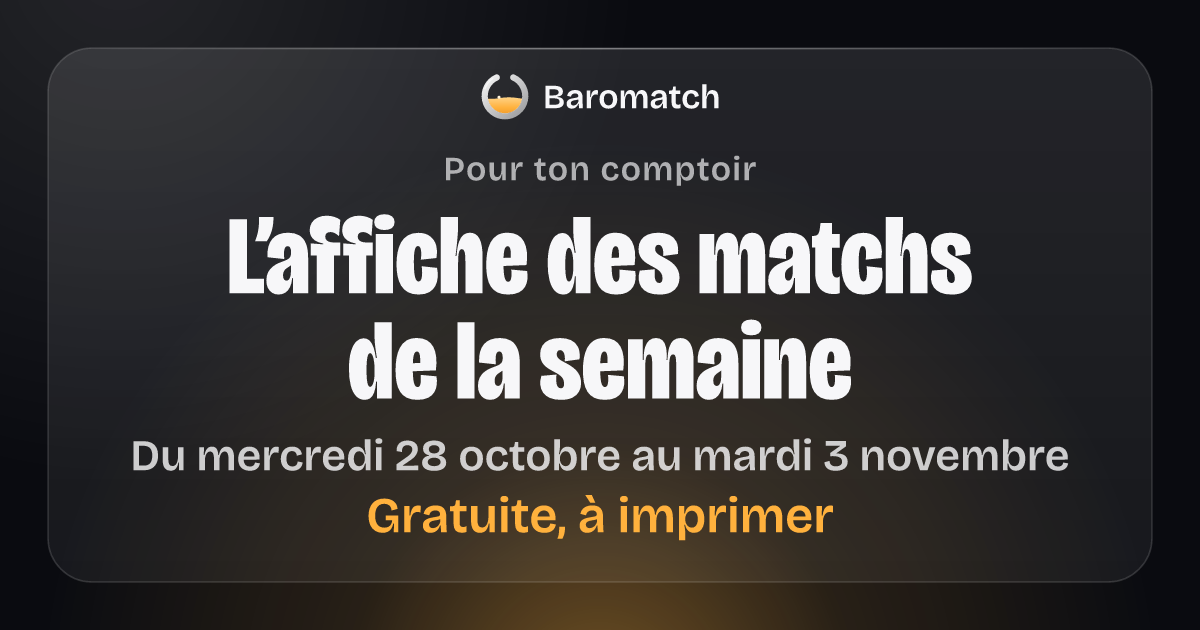
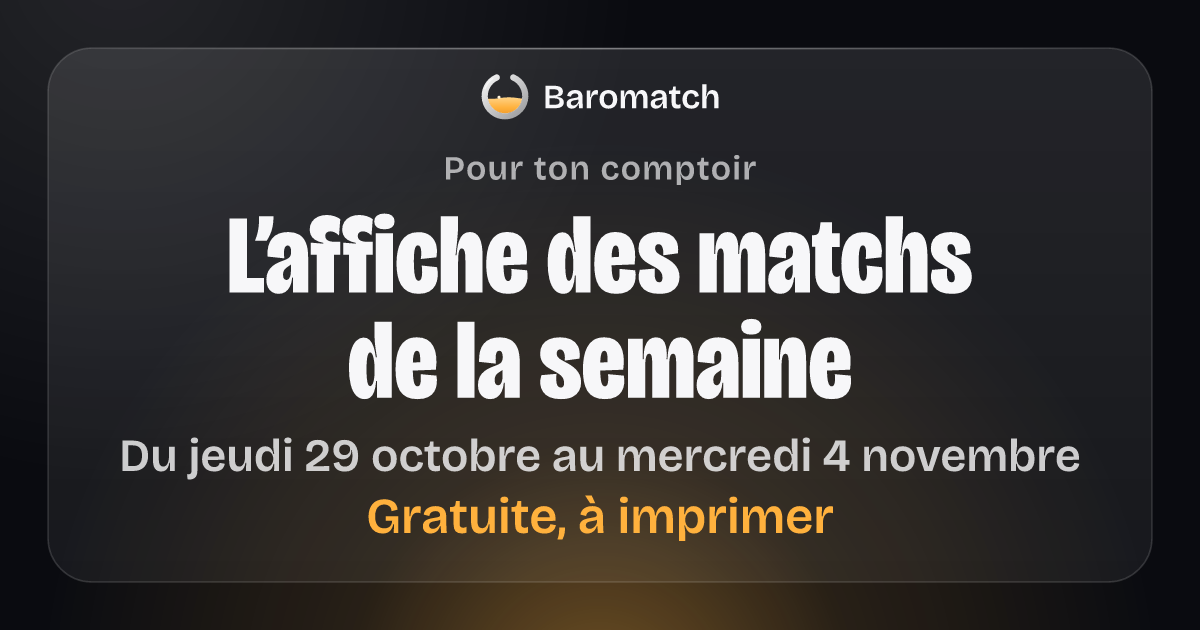
Pages des matchs : mise à jour du 29/10/2026 à 01:53

diff --git a/matchs/affiche/pour-le-patron/index.html b/matchs/affiche/pour-le-patron/index.html
@@ -86,7 +86,7 @@
       <p class="affiche-appel">Propose ton bar : scanne le code.</p>
       <p class="affiche-appel__suite">Ou écris à contact@baromatch.fr</p>
       <p class="affiche-laissee" aria-hidden="true">Laissée par :<span class="affiche-laissee__trait"></span></p>
-      <p class="affiche-prepare"><svg class="affiche-verre" viewBox="0 0 200 200" aria-hidden="true" focusable="false"><clipPath id="affiche-bol"><circle cx="100" cy="100" r="67"/></clipPath><g clip-path="url(#affiche-bol)"><path d="M-200 108 q35 -6 70 0 t70 0 t70 0 t70 0 t70 0 t70 0 t70 0 t70 0 V215 H-200 Z" fill="#FFB13D"/></g><path d="M68.3 28.7 A78 78 0 1 0 131.7 28.7" fill="none" stroke="#0A0B10" stroke-width="16" stroke-linecap="round"/></svg><span>Feuille préparée sur baromatch.fr, le mercredi 28 octobre.</span></p>
+      <p class="affiche-prepare"><svg class="affiche-verre" viewBox="0 0 200 200" aria-hidden="true" focusable="false"><clipPath id="affiche-bol"><circle cx="100" cy="100" r="67"/></clipPath><g clip-path="url(#affiche-bol)"><path d="M-200 108 q35 -6 70 0 t70 0 t70 0 t70 0 t70 0 t70 0 t70 0 t70 0 V215 H-200 Z" fill="#FFB13D"/></g><path d="M68.3 28.7 A78 78 0 1 0 131.7 28.7" fill="none" stroke="#0A0B10" stroke-width="16" stroke-linecap="round"/></svg><span>Feuille préparée sur baromatch.fr, le jeudi 29 octobre.</span></p>
     </div>
     <figure class="affiche-qr">
       <svg class="affiche-qr__code" viewBox="0 0 41 41" role="img" aria-label="QR code vers la page des bars de baromatch.fr, au formulaire pour proposer un bar" shape-rendering="crispEdges"><rect width="41" height="41" fill="#FFFFFF"/><path d="M4 4h7v1h-7zM12 4h1v1h-1zM15 4h1v1h-1zM18 4h2v1h-2zM21 4h1v1h-1zM25 4h1v1h-1zM27 4h1v1h-1zM30 4h7v1h-7zM4 5h1v1h-1zM10 5h1v1h-1zM20 5h2v1h-2zM23 5h1v1h-1zM25 5h2v1h-2zM30 5h1v1h-1zM36 5h1v1h-1zM4 6h1v1h-1zM6 6h3v1h-3zM10 6h1v1h-1zM13 6h2v1h-2zM17 6h1v1h-1zM20 6h1v1h-1zM23 6h3v1h-3zM27 6h2v1h-2zM30 6h1v1h-1zM32 6h3v1h-3zM36 6h1v1h-1zM4 7h1v1h-1zM6 7h3v1h-3zM10 7h1v1h-1zM12 7h1v1h-1zM14 7h2v1h-2zM18 7h2v1h-2zM21 7h4v1h-4zM30 7h1v1h-1zM32 7h3v1h-3zM36 7h1v1h-1zM4 8h1v1h-1zM6 8h3v1h-3zM10 8h1v1h-1zM12 8h3v1h-3zM16 8h1v1h-1zM18 8h1v1h-1zM22 8h3v1h-3zM26 8h2v1h-2zM30 8h1v1h-1zM32 8h3v1h-3zM36 8h1v1h-1zM4 9h1v1h-1zM10 9h1v1h-1zM12 9h1v1h-1zM17 9h1v1h-1zM20 9h1v1h-1zM22 9h2v1h-2zM28 9h1v1h-1zM30 9h1v1h-1zM36 9h1v1h-1zM4 10h7v1h-7zM12 10h1v1h-1zM14 10h1v1h-1zM16 10h1v1h-1zM18 10h1v1h-1zM20 10h1v1h-1zM22 10h1v1h-1zM24 10h1v1h-1zM26 10h1v1h-1zM28 10h1v1h-1zM30 10h7v1h-7zM12 11h4v1h-4zM18 11h4v1h-4zM25 11h1v1h-1zM27 11h1v1h-1zM4 12h1v1h-1zM8 12h1v1h-1zM10 12h3v1h-3zM14 12h1v1h-1zM16 12h1v1h-1zM20 12h2v1h-2zM23 12h4v1h-4zM28 12h6v1h-6zM36 12h1v1h-1zM5 13h3v1h-3zM9 13h1v1h-1zM12 13h3v1h-3zM17 13h4v1h-4zM22 13h1v1h-1zM24 13h1v1h-1zM26 13h2v1h-2zM29 13h1v1h-1zM33 13h2v1h-2zM5 14h1v1h-1zM7 14h2v1h-2zM10 14h1v1h-1zM19 14h1v1h-1zM21 14h1v1h-1zM26 14h5v1h-5zM33 14h1v1h-1zM35 14h1v1h-1zM4 15h1v1h-1zM6 15h2v1h-2zM14 15h1v1h-1zM18 15h2v1h-2zM21 15h3v1h-3zM25 15h1v1h-1zM28 15h1v1h-1zM36 15h1v1h-1zM4 16h1v1h-1zM10 16h2v1h-2zM15 16h4v1h-4zM22 16h6v1h-6zM29 16h2v1h-2zM32 16h2v1h-2zM35 16h2v1h-2zM5 17h1v1h-1zM7 17h1v1h-1zM9 17h1v1h-1zM11 17h1v1h-1zM14 17h1v1h-1zM17 17h1v1h-1zM20 17h2v1h-2zM23 17h1v1h-1zM27 17h1v1h-1zM29 17h1v1h-1zM31 17h1v1h-1zM34 17h1v1h-1zM5 18h2v1h-2zM8 18h4v1h-4zM16 18h1v1h-1zM18 18h1v1h-1zM20 18h1v1h-1zM22 18h2v1h-2zM25 18h1v1h-1zM27 18h4v1h-4zM32 18h1v1h-1zM34 18h2v1h-2zM4 19h4v1h-4zM13 19h3v1h-3zM18 19h1v1h-1zM21 19h6v1h-6zM28 19h3v1h-3zM33 19h1v1h-1zM4 20h4v1h-4zM10 20h3v1h-3zM14 20h3v1h-3zM19 20h1v1h-1zM21 20h1v1h-1zM25 20h4v1h-4zM30 20h1v1h-1zM32 20h1v1h-1zM35 20h1v1h-1zM5 21h1v1h-1zM7 21h3v1h-3zM11 21h2v1h-2zM16 21h1v1h-1zM18 21h4v1h-4zM27 21h1v1h-1zM29 21h1v1h-1zM33 21h2v1h-2zM5 22h3v1h-3zM10 22h1v1h-1zM14 22h1v1h-1zM16 22h5v1h-5zM22 22h1v1h-1zM25 22h1v1h-1zM27 22h1v1h-1zM31 22h1v1h-1zM33 22h1v1h-1zM35 22h1v1h-1zM6 23h2v1h-2zM9 23h1v1h-1zM11 23h2v1h-2zM14 23h1v1h-1zM18 23h2v1h-2zM23 23h3v1h-3zM29 23h3v1h-3zM35 23h1v1h-1zM6 24h1v1h-1zM10 24h2v1h-2zM13 24h1v1h-1zM15 24h1v1h-1zM19 24h2v1h-2zM23 24h1v1h-1zM25 24h2v1h-2zM28 24h1v1h-1zM30 24h1v1h-1zM32 24h2v1h-2zM35 24h2v1h-2zM4 25h5v1h-5zM11 25h3v1h-3zM18 25h1v1h-1zM22 25h3v1h-3zM26 25h2v1h-2zM31 25h1v1h-1zM33 25h1v1h-1zM35 25h1v1h-1zM6 26h5v1h-5zM12 26h1v1h-1zM14 26h2v1h-2zM19 26h1v1h-1zM21 26h2v1h-2zM24 26h1v1h-1zM26 26h2v1h-2zM31 26h5v1h-5zM8 27h2v1h-2zM12 27h1v1h-1zM18 27h5v1h-5zM25 27h1v1h-1zM30 27h1v1h-1zM32 27h1v1h-1zM4 28h5v1h-5zM10 28h1v1h-1zM14 28h1v1h-1zM16 28h2v1h-2zM21 28h1v1h-1zM23 28h4v1h-4zM28 28h5v1h-5zM35 28h2v1h-2zM12 29h3v1h-3zM16 29h1v1h-1zM18 29h3v1h-3zM27 29h2v1h-2zM32 29h1v1h-1zM34 29h2v1h-2zM4 30h7v1h-7zM12 30h1v1h-1zM15 30h2v1h-2zM19 30h1v1h-1zM21 30h1v1h-1zM26 30h1v1h-1zM28 30h1v1h-1zM30 30h1v1h-1zM32 30h2v1h-2zM35 30h1v1h-1zM4 31h1v1h-1zM10 31h1v1h-1zM16 31h4v1h-4zM21 31h6v1h-6zM28 31h1v1h-1zM32 31h1v1h-1zM36 31h1v1h-1zM4 32h1v1h-1zM6 32h3v1h-3zM10 32h1v1h-1zM12 32h3v1h-3zM17 32h1v1h-1zM19 32h1v1h-1zM22 32h1v1h-1zM24 32h1v1h-1zM28 32h6v1h-6zM35 32h2v1h-2zM4 33h1v1h-1zM6 33h3v1h-3zM10 33h1v1h-1zM14 33h3v1h-3zM20 33h1v1h-1zM23 33h1v1h-1zM25 33h1v1h-1zM27 33h2v1h-2zM30 33h3v1h-3zM4 34h1v1h-1zM6 34h3v1h-3zM10 34h1v1h-1zM13 34h4v1h-4zM20 34h1v1h-1zM23 34h1v1h-1zM25 34h3v1h-3zM30 34h4v1h-4zM4 35h1v1h-1zM10 35h1v1h-1zM14 35h5v1h-5zM21 35h1v1h-1zM23 35h4v1h-4zM28 35h1v1h-1zM4 36h7v1h-7zM12 36h1v1h-1zM14 36h1v1h-1zM16 36h1v1h-1zM18 36h2v1h-2zM21 36h2v1h-2zM24 36h2v1h-2zM27 36h4v1h-4zM33 36h1v1h-1zM36 36h1v1h-1z" fill="#000000"/></svg>
@@ -111,7 +111,7 @@
       <p class="affiche-appel">Propose ton bar : scanne le code.</p>
       <p class="affiche-appel__suite">Ou écris à contact@baromatch.fr</p>
       <p class="affiche-laissee" aria-hidden="true">Laissée par :<span class="affiche-laissee__trait"></span></p>
-      <p class="affiche-prepare"><svg class="affiche-verre" viewBox="0 0 200 200" aria-hidden="true" focusable="false"><clipPath id="affiche-bol-copie"><circle cx="100" cy="100" r="67"/></clipPath><g clip-path="url(#affiche-bol-copie)"><path d="M-200 108 q35 -6 70 0 t70 0 t70 0 t70 0 t70 0 t70 0 t70 0 t70 0 V215 H-200 Z" fill="#FFB13D"/></g><path d="M68.3 28.7 A78 78 0 1 0 131.7 28.7" fill="none" stroke="#0A0B10" stroke-width="16" stroke-linecap="round"/></svg><span>Feuille préparée sur baromatch.fr, le mercredi 28 octobre.</span></p>
+      <p class="affiche-prepare"><svg class="affiche-verre" viewBox="0 0 200 200" aria-hidden="true" focusable="false"><clipPath id="affiche-bol-copie"><circle cx="100" cy="100" r="67"/></clipPath><g clip-path="url(#affiche-bol-copie)"><path d="M-200 108 q35 -6 70 0 t70 0 t70 0 t70 0 t70 0 t70 0 t70 0 t70 0 V215 H-200 Z" fill="#FFB13D"/></g><path d="M68.3 28.7 A78 78 0 1 0 131.7 28.7" fill="none" stroke="#0A0B10" stroke-width="16" stroke-linecap="round"/></svg><span>Feuille préparée sur baromatch.fr, le jeudi 29 octobre.</span></p>
     </div>
     <figure class="affiche-qr">
       <svg class="affiche-qr__code" viewBox="0 0 41 41" role="img" aria-label="QR code vers la page des bars de baromatch.fr, au formulaire pour proposer un bar" shape-rendering="crispEdges"><rect width="41" height="41" fill="#FFFFFF"/><path d="M4 4h7v1h-7zM12 4h1v1h-1zM15 4h1v1h-1zM18 4h2v1h-2zM21 4h1v1h-1zM25 4h1v1h-1zM27 4h1v1h-1zM30 4h7v1h-7zM4 5h1v1h-1zM10 5h1v1h-1zM20 5h2v1h-2zM23 5h1v1h-1zM25 5h2v1h-2zM30 5h1v1h-1zM36 5h1v1h-1zM4 6h1v1h-1zM6 6h3v1h-3zM10 6h1v1h-1zM13 6h2v1h-2zM17 6h1v1h-1zM20 6h1v1h-1zM23 6h3v1h-3zM27 6h2v1h-2zM30 6h1v1h-1zM32 6h3v1h-3zM36 6h1v1h-1zM4 7h1v1h-1zM6 7h3v1h-3zM10 7h1v1h-1zM12 7h1v1h-1zM14 7h2v1h-2zM18 7h2v1h-2zM21 7h4v1h-4zM30 7h1v1h-1zM32 7h3v1h-3zM36 7h1v1h-1zM4 8h1v1h-1zM6 8h3v1h-3zM10 8h1v1h-1zM12 8h3v1h-3zM16 8h1v1h-1zM18 8h1v1h-1zM22 8h3v1h-3zM26 8h2v1h-2zM30 8h1v1h-1zM32 8h3v1h-3zM36 8h1v1h-1zM4 9h1v1h-1zM10 9h1v1h-1zM12 9h1v1h-1zM17 9h1v1h-1zM20 9h1v1h-1zM22 9h2v1h-2zM28 9h1v1h-1zM30 9h1v1h-1zM36 9h1v1h-1zM4 10h7v1h-7zM12 10h1v1h-1zM14 10h1v1h-1zM16 10h1v1h-1zM18 10h1v1h-1zM20 10h1v1h-1zM22 10h1v1h-1zM24 10h1v1h-1zM26 10h1v1h-1zM28 10h1v1h-1zM30 10h7v1h-7zM12 11h4v1h-4zM18 11h4v1h-4zM25 11h1v1h-1zM27 11h1v1h-1zM4 12h1v1h-1zM8 12h1v1h-1zM10 12h3v1h-3zM14 12h1v1h-1zM16 12h1v1h-1zM20 12h2v1h-2zM23 12h4v1h-4zM28 12h6v1h-6zM36 12h1v1h-1zM5 13h3v1h-3zM9 13h1v1h-1zM12 13h3v1h-3zM17 13h4v1h-4zM22 13h1v1h-1zM24 13h1v1h-1zM26 13h2v1h-2zM29 13h1v1h-1zM33 13h2v1h-2zM5 14h1v1h-1zM7 14h2v1h-2zM10 14h1v1h-1zM19 14h1v1h-1zM21 14h1v1h-1zM26 14h5v1h-5zM33 14h1v1h-1zM35 14h1v1h-1zM4 15h1v1h-1zM6 15h2v1h-2zM14 15h1v1h-1zM18 15h2v1h-2zM21 15h3v1h-3zM25 15h1v1h-1zM28 15h1v1h-1zM36 15h1v1h-1zM4 16h1v1h-1zM10 16h2v1h-2zM15 16h4v1h-4zM22 16h6v1h-6zM29 16h2v1h-2zM32 16h2v1h-2zM35 16h2v1h-2zM5 17h1v1h-1zM7 17h1v1h-1zM9 17h1v1h-1zM11 17h1v1h-1zM14 17h1v1h-1zM17 17h1v1h-1zM20 17h2v1h-2zM23 17h1v1h-1zM27 17h1v1h-1zM29 17h1v1h-1zM31 17h1v1h-1zM34 17h1v1h-1zM5 18h2v1h-2zM8 18h4v1h-4zM16 18h1v1h-1zM18 18h1v1h-1zM20 18h1v1h-1zM22 18h2v1h-2zM25 18h1v1h-1zM27 18h4v1h-4zM32 18h1v1h-1zM34 18h2v1h-2zM4 19h4v1h-4zM13 19h3v1h-3zM18 19h1v1h-1zM21 19h6v1h-6zM28 19h3v1h-3zM33 19h1v1h-1zM4 20h4v1h-4zM10 20h3v1h-3zM14 20h3v1h-3zM19 20h1v1h-1zM21 20h1v1h-1zM25 20h4v1h-4zM30 20h1v1h-1zM32 20h1v1h-1zM35 20h1v1h-1zM5 21h1v1h-1zM7 21h3v1h-3zM11 21h2v1h-2zM16 21h1v1h-1zM18 21h4v1h-4zM27 21h1v1h-1zM29 21h1v1h-1zM33 21h2v1h-2zM5 22h3v1h-3zM10 22h1v1h-1zM14 22h1v1h-1zM16 22h5v1h-5zM22 22h1v1h-1zM25 22h1v1h-1zM27 22h1v1h-1zM31 22h1v1h-1zM33 22h1v1h-1zM35 22h1v1h-1zM6 23h2v1h-2zM9 23h1v1h-1zM11 23h2v1h-2zM14 23h1v1h-1zM18 23h2v1h-2zM23 23h3v1h-3zM29 23h3v1h-3zM35 23h1v1h-1zM6 24h1v1h-1zM10 24h2v1h-2zM13 24h1v1h-1zM15 24h1v1h-1zM19 24h2v1h-2zM23 24h1v1h-1zM25 24h2v1h-2zM28 24h1v1h-1zM30 24h1v1h-1zM32 24h2v1h-2zM35 24h2v1h-2zM4 25h5v1h-5zM11 25h3v1h-3zM18 25h1v1h-1zM22 25h3v1h-3zM26 25h2v1h-2zM31 25h1v1h-1zM33 25h1v1h-1zM35 25h1v1h-1zM6 26h5v1h-5zM12 26h1v1h-1zM14 26h2v1h-2zM19 26h1v1h-1zM21 26h2v1h-2zM24 26h1v1h-1zM26 26h2v1h-2zM31 26h5v1h-5zM8 27h2v1h-2zM12 27h1v1h-1zM18 27h5v1h-5zM25 27h1v1h-1zM30 27h1v1h-1zM32 27h1v1h-1zM4 28h5v1h-5zM10 28h1v1h-1zM14 28h1v1h-1zM16 28h2v1h-2zM21 28h1v1h-1zM23 28h4v1h-4zM28 28h5v1h-5zM35 28h2v1h-2zM12 29h3v1h-3zM16 29h1v1h-1zM18 29h3v1h-3zM27 29h2v1h-2zM32 29h1v1h-1zM34 29h2v1h-2zM4 30h7v1h-7zM12 30h1v1h-1zM15 30h2v1h-2zM19 30h1v1h-1zM21 30h1v1h-1zM26 30h1v1h-1zM28 30h1v1h-1zM30 30h1v1h-1zM32 30h2v1h-2zM35 30h1v1h-1zM4 31h1v1h-1zM10 31h1v1h-1zM16 31h4v1h-4zM21 31h6v1h-6zM28 31h1v1h-1zM32 31h1v1h-1zM36 31h1v1h-1zM4 32h1v1h-1zM6 32h3v1h-3zM10 32h1v1h-1zM12 32h3v1h-3zM17 32h1v1h-1zM19 32h1v1h-1zM22 32h1v1h-1zM24 32h1v1h-1zM28 32h6v1h-6zM35 32h2v1h-2zM4 33h1v1h-1zM6 33h3v1h-3zM10 33h1v1h-1zM14 33h3v1h-3zM20 33h1v1h-1zM23 33h1v1h-1zM25 33h1v1h-1zM27 33h2v1h-2zM30 33h3v1h-3zM4 34h1v1h-1zM6 34h3v1h-3zM10 34h1v1h-1zM13 34h4v1h-4zM20 34h1v1h-1zM23 34h1v1h-1zM25 34h3v1h-3zM30 34h4v1h-4zM4 35h1v1h-1zM10 35h1v1h-1zM14 35h5v1h-5zM21 35h1v1h-1zM23 35h4v1h-4zM28 35h1v1h-1zM4 36h7v1h-7zM12 36h1v1h-1zM14 36h1v1h-1zM16 36h1v1h-1zM18 36h2v1h-2zM21 36h2v1h-2zM24 36h2v1h-2zM27 36h4v1h-4zM33 36h1v1h-1zM36 36h1v1h-1z" fill="#000000"/></svg>

diff --git a/ce-soir/index.html b/ce-soir/index.html
@@ -6,8 +6,8 @@
 <!-- Page écrite par le générateur des pages des matchs (dossier generateur du dépôt), à chaque passage : une retouche
      à la main serait effacée au suivant. Aucun script écrit dans la page : seulement les fichiers du site. -->
 <meta http-equiv="Content-Security-Policy" content="default-src 'self'; script-src 'self'; style-src 'self'; img-src 'self' data:; font-src 'self'; connect-src 'self'; base-uri 'none'; object-src 'none'; form-action https://formspree.io">
-<title>Les matchs de ce soir, mercredi 28 octobre — Baromatch</title>
-<meta name="description" content="Mercredi 28 octobre : pas de match annoncé ce soir. Les prochains, à l’heure de Paris, et les villes, sur Baromatch.">
+<title>Les matchs de ce soir, jeudi 29 octobre — Baromatch</title>
+<meta name="description" content="Jeudi 29 octobre : 1 match aujourd’hui, à l’heure de Paris. Pas encore de bar pour le voir sur Baromatch : les prochains matchs et les villes.">
 <meta name="robots" content="noindex">
 <link rel="canonical" href="https://baromatch.fr/ce-soir/">
 <meta name="theme-color" content="#0A0B10">
@@ -20,18 +20,18 @@
 <meta property="og:type" content="website">
 <meta property="og:locale" content="fr_FR">
 <meta property="og:site_name" content="Baromatch">
-<meta property="og:title" content="Les matchs de ce soir, mercredi 28 octobre — Baromatch">
-<meta property="og:description" content="Mercredi 28 octobre : pas de match annoncé ce soir. Les prochains, à l’heure de Paris, et les villes, sur Baromatch.">
+<meta property="og:title" content="Les matchs de ce soir, jeudi 29 octobre — Baromatch">
+<meta property="og:description" content="Jeudi 29 octobre : 1 match aujourd’hui, à l’heure de Paris. Pas encore de bar pour le voir sur Baromatch : les prochains matchs et les villes.">
 <meta property="og:url" content="https://baromatch.fr/ce-soir/">
-<meta property="og:image" content="https://baromatch.fr/ce-soir/partage.png?v=FGZJ2M5diq">
+<meta property="og:image" content="https://baromatch.fr/ce-soir/partage.png?v=FToDQQGz10">
 <meta property="og:image:width" content="1200">
 <meta property="og:image:height" content="630">
-<meta property="og:image:alt" content="Mercredi 28 octobre. Pas de match annoncé.">
+<meta property="og:image:alt" content="Les matchs du jour, jeudi 29 octobre. Fiorentina – Atalanta · 20:45.">
 <meta name="twitter:card" content="summary_large_image">
 <meta name="twitter:site" content="@baromatchapp">
-<meta name="twitter:image" content="https://baromatch.fr/ce-soir/partage.png?v=FGZJ2M5diq">
+<meta name="twitter:image" content="https://baromatch.fr/ce-soir/partage.png?v=FToDQQGz10">
 <script src="/partage.js" defer></script>
-<script type="application/ld+json">{"@context":"https://schema.org","@graph":[{"@type":"CollectionPage","@id":"https://baromatch.fr/ce-soir/","url":"https://baromatch.fr/ce-soir/","name":"Les matchs de ce soir, mercredi 28 octobre — Baromatch","description":"Mercredi 28 octobre : pas de match annoncé ce soir. Les prochains, à l’heure de Paris, et les villes, sur Baromatch.","inLanguage":"fr-FR","isPartOf":{"@id":"https://baromatch.fr/#site"},"publisher":{"@id":"https://baromatch.fr/#organisation"}},{"@type":"BreadcrumbList","itemListElement":[{"@type":"ListItem","position":1,"name":"Accueil","item":"https://baromatch.fr/"},{"@type":"ListItem","position":2,"name":"Ce soir","item":"https://baromatch.fr/ce-soir/"}]},{"@type":"ItemList","name":"Les prochains matchs","numberOfItems":8,"itemListElement":[{"@type":"ListItem","position":1,"name":"Fiorentina – Atalanta","url":"https://baromatch.fr/matchs/fiorentina-atalanta-2026-10-29/"},{"@type":"ListItem","position":2,"name":"Le Havre – PSG","url":"https://baromatch.fr/matchs/le-havre-psg-2026-10-30/"},{"@type":"ListItem","position":3,"name":"Lille – Lens","url":"https://baromatch.fr/matchs/lille-lens-2026-10-30/"},{"@type":"ListItem","position":4,"name":"Chelsea – Man United","url":"https://baromatch.fr/matchs/chelsea-man-united-2026-10-31/"},{"@type":"ListItem","position":5,"name":"Levante – Atlético","url":"https://baromatch.fr/matchs/levante-atletico-2026-10-31/"},{"@type":"ListItem","position":6,"name":"Leverkusen – Stuttgart","url":"https://baromatch.fr/matchs/leverkusen-stuttgart-2026-10-31/"},{"@type":"ListItem","position":7,"name":"Nice – Rennes","url":"https://baromatch.fr/matchs/nice-rennes-2026-10-31/"},{"@type":"ListItem","position":8,"name":"Bayern – Dortmund","url":"https://baromatch.fr/matchs/bayern-dortmund-2026-10-31/"}]}]}</script>
+<script type="application/ld+json">{"@context":"https://schema.org","@graph":[{"@type":"CollectionPage","@id":"https://baromatch.fr/ce-soir/","url":"https://baromatch.fr/ce-soir/","name":"Les matchs de ce soir, jeudi 29 octobre — Baromatch","description":"Jeudi 29 octobre : 1 match aujourd’hui, à l’heure de Paris. Pas encore de bar pour le voir sur Baromatch : les prochains matchs et les villes.","inLanguage":"fr-FR","isPartOf":{"@id":"https://baromatch.fr/#site"},"publisher":{"@id":"https://baromatch.fr/#organisation"}},{"@type":"BreadcrumbList","itemListElement":[{"@type":"ListItem","position":1,"name":"Accueil","item":"https://baromatch.fr/"},{"@type":"ListItem","position":2,"name":"Ce soir","item":"https://baromatch.fr/ce-soir/"}]},{"@type":"ItemList","name":"Les matchs d’aujourd’hui","numberOfItems":1,"itemListElement":[{"@type":"ListItem","position":1,"name":"Fiorentina – Atalanta","url":"https://baromatch.fr/matchs/fiorentina-atalanta-2026-10-29/"}]}]}</script>
 </head>
 <body>
 <a class="lien-evitement" href="#contenu">Aller au contenu</a>
@@ -49,19 +49,21 @@
 </nav>
 <header class="regarder-tete">
   <h1 class="regarder-titre">Les matchs de ce soir</h1>
-  <p class="regarder-quand">Mercredi 28 octobre</p>
+  <p class="regarder-quand">Jeudi 29 octobre</p>
   <p class="regarder-chapeau">Les matchs du jour, à l’heure de Paris.</p>
 </header>
-<div class="partage" role="group" aria-label="Partager la page" data-titre="Les matchs de ce soir, mercredi 28 octobre — Baromatch" data-adresse="https://baromatch.fr/ce-soir/" data-copie="Lien copié." data-echec="Copie impossible : appuie longtemps sur le lien pour le copier.">
+<div class="partage" role="group" aria-label="Partager la page" data-titre="Les matchs de ce soir, jeudi 29 octobre — Baromatch" data-adresse="https://baromatch.fr/ce-soir/" data-copie="Lien copié." data-echec="Copie impossible : appuie longtemps sur le lien pour le copier.">
   <button class="partage__bouton partage__natif" type="button" hidden>Partager</button>
-  <a class="partage__bouton partage__whatsapp" href="https://wa.me/?text=Les%20matchs%20de%20ce%20soir%2C%20mercredi%2028%20octobre%20%E2%80%94%20Baromatch%20https%3A%2F%2Fbaromatch.fr%2Fce-soir%2F" rel="noopener">Envoyer sur WhatsApp</a>
+  <a class="partage__bouton partage__whatsapp" href="https://wa.me/?text=Les%20matchs%20de%20ce%20soir%2C%20jeudi%2029%20octobre%20%E2%80%94%20Baromatch%20https%3A%2F%2Fbaromatch.fr%2Fce-soir%2F" rel="noopener">Envoyer sur WhatsApp</a>
   <button class="partage__bouton partage__copier" type="button" hidden>Copier le lien</button>
   <a class="partage__lien" href="https://baromatch.fr/ce-soir/">baromatch.fr/ce-soir/</a>
   <p class="partage__statut" role="status" aria-live="polite"></p>
 </div>
-<section class="regarder-section regarder-ce-soir" aria-labelledby="titre-rien">
-  <h2 id="titre-rien">Pas de match ce soir</h2>
-  <p>Aucun match n’est annoncé ce soir. Les prochains sont plus bas.</p>
+<section class="regarder-section" aria-labelledby="titre-matchs">
+  <h2 id="titre-matchs">Au programme</h2>
+  <ul class="regarder-matchs">
+    <li><a class="regarder-matchs__match" href="/matchs/fiorentina-atalanta-2026-10-29/">Fiorentina – Atalanta</a> <span class="regarder-matchs__infos"><time datetime="2026-10-29T20:45:00+01:00">20:45</time> · Serie A</span></li>
+  </ul>
 </section>
 <section class="regarder-section regarder-premiers" aria-labelledby="titre-premiers">
   <h2 id="titre-premiers">Pas encore de bar sur Baromatch</h2>
@@ -73,10 +75,6 @@
 </section>
 <section class="regarder-section" aria-labelledby="titre-prochains">
   <h2 id="titre-prochains">Les prochains matchs</h2>
-  <h3 class="regarder-jour">Jeudi 29 octobre</h3>
-  <ul class="regarder-matchs">
-    <li><a class="regarder-matchs__match" href="/matchs/fiorentina-atalanta-2026-10-29/">Fiorentina – Atalanta</a> <span class="regarder-matchs__infos"><time datetime="2026-10-29T20:45:00+01:00">20:45</time> · Serie A</span></li>
-  </ul>
   <h3 class="regarder-jour">Vendredi 30 octobre</h3>
   <ul class="regarder-matchs">
     <li><a class="regarder-matchs__match" href="/matchs/le-havre-psg-2026-10-30/">Le Havre – PSG</a> <span class="regarder-matchs__infos"><time datetime="2026-10-30T19:00:00+01:00">19:00</time> · Ligue 1</span></li>
@@ -89,6 +87,7 @@
     <li><a class="regarder-matchs__match" href="/matchs/leverkusen-stuttgart-2026-10-31/">Leverkusen – Stuttgart</a> <span class="regarder-matchs__infos"><time datetime="2026-10-31T15:30:00+01:00">15:30</time> · Bundesliga</span></li>
     <li><a class="regarder-matchs__match" href="/matchs/nice-rennes-2026-10-31/">Nice – Rennes</a> <span class="regarder-matchs__infos"><time datetime="2026-10-31T17:15:00+01:00">17:15</time> · Ligue 1</span></li>
     <li><a class="regarder-matchs__match" href="/matchs/bayern-dortmund-2026-10-31/">Bayern – Dortmund</a> <span class="regarder-matchs__infos"><time datetime="2026-10-31T18:30:00+01:00">18:30</time> · Bundesliga</span></li>
+    <li><a class="regarder-matchs__match" href="/matchs/lorient-brest-2026-10-31/">Lorient – Brest</a> <span class="regarder-matchs__infos"><time datetime="2026-10-31T20:45:00+01:00">20:45</time> · Ligue 1</span></li>
   </ul>
   <p class="regarder-suite"><a href="/matchs/">Tous les matchs de la semaine</a></p>
 </section>

diff --git a/matchs/affiche/index.html b/matchs/affiche/index.html
@@ -24,13 +24,13 @@
 <meta property="og:title" content="Affiche des matchs de foot de la semaine pour ton bar">
 <meta property="og:description" content="Les matchs des sept prochains jours, à l’heure de Paris : coche ceux que tu diffuses et imprime ton affiche en A4 ou en A3. Gratuit, sans compte.">
 <meta property="og:url" content="https://baromatch.fr/matchs/affiche/">
-<meta property="og:image" content="https://baromatch.fr/matchs/affiche/partage.png?v=poF7Ia_EGC">
+<meta property="og:image" content="https://baromatch.fr/matchs/affiche/partage.png?v=RJ38LpSuLS">
 <meta property="og:image:width" content="1200">
 <meta property="og:image:height" content="630">
-<meta property="og:image:alt" content="L’affiche des matchs de la semaine, du mercredi 28 octobre au mardi 3 novembre. Gratuite, à imprimer.">
+<meta property="og:image:alt" content="L’affiche des matchs de la semaine, du jeudi 29 octobre au mercredi 4 novembre. Gratuite, à imprimer.">
 <meta name="twitter:card" content="summary_large_image">
 <meta name="twitter:site" content="@baromatchapp">
-<meta name="twitter:image" content="https://baromatch.fr/matchs/affiche/partage.png?v=poF7Ia_EGC">
+<meta name="twitter:image" content="https://baromatch.fr/matchs/affiche/partage.png?v=RJ38LpSuLS">
 <script type="application/ld+json">{"@context":"https://schema.org","@graph":[{"@type":"WebPage","@id":"https://baromatch.fr/matchs/affiche/","url":"https://baromatch.fr/matchs/affiche/","name":"Affiche des matchs de foot de la semaine pour ton bar","description":"Les matchs des sept prochains jours, à l’heure de Paris : coche ceux que tu diffuses et imprime ton affiche en A4 ou en A3. Gratuit, sans compte.","inLanguage":"fr-FR","isPartOf":{"@id":"https://baromatch.fr/#site"},"publisher":{"@id":"https://baromatch.fr/#organisation"}},{"@type":"BreadcrumbList","itemListElement":[{"@type":"ListItem","position":1,"name":"Accueil","item":"https://baromatch.fr/"},{"@type":"ListItem","position":2,"name":"Les matchs de la semaine","item":"https://baromatch.fr/matchs/"},{"@type":"ListItem","position":3,"name":"L’affiche de la semaine","item":"https://baromatch.fr/matchs/affiche/"}]}]}</script>
 </head>
 <body>
@@ -71,7 +71,7 @@
   <div class="affiche">
   <div class="affiche-tete">
     <h3 class="affiche-titre">Les matchs ici</h3>
-    <p class="affiche-dates">Du mercredi 28 octobre au mardi 3 novembre</p>
+    <p class="affiche-dates">Du jeudi 29 octobre au mercredi 4 novembre</p>
   </div>
   <section class="affiche-jour" aria-labelledby="jour-2026-10-29">
     <h4 class="affiche-jour__nom" id="jour-2026-10-29"><time datetime="2026-10-29">Jeudi 29</time></h4>
@@ -124,11 +124,17 @@
       <li class="affiche-ligne"><input class="affiche-case" type="checkbox" id="affiche-villarreal-psg-2026-11-03" aria-describedby="jour-2026-11-03"><label class="affiche-ligne__texte" for="affiche-villarreal-psg-2026-11-03"><time class="affiche-heure" datetime="2026-11-03T21:00:00+01:00">21:00</time> <span class="affiche-match">Villarreal – PSG</span> <span class="affiche-competition">Ligue des champions</span></label></li>
     </ul>
   </section>
+  <section class="affiche-jour" aria-labelledby="jour-2026-11-04">
+    <h4 class="affiche-jour__nom" id="jour-2026-11-04"><time datetime="2026-11-04">Mercredi 4</time></h4>
+    <ul class="affiche-lignes">
+      <li class="affiche-ligne"><input class="affiche-case" type="checkbox" id="affiche-lens-como-1907-2026-11-04" aria-describedby="jour-2026-11-04"><label class="affiche-ligne__texte" for="affiche-lens-como-1907-2026-11-04"><time class="affiche-heure" datetime="2026-11-04T21:00:00+01:00">21:00</time> <span class="affiche-match">Lens – Como 1907</span> <span class="affiche-competition">Ligue des champions</span></label></li>
+    </ul>
+  </section>
   <div class="affiche-pied">
     <div class="affiche-pied__texte">
       <p class="affiche-stylo" aria-hidden="true">À compléter au stylo</p>
       <ul class="affiche-blanc" aria-hidden="true"><li></li><li></li></ul>
-      <p class="affiche-prepare"><svg class="affiche-verre" viewBox="0 0 200 200" aria-hidden="true" focusable="false"><clipPath id="affiche-bol"><circle cx="100" cy="100" r="67"/></clipPath><g clip-path="url(#affiche-bol)"><path d="M-200 108 q35 -6 70 0 t70 0 t70 0 t70 0 t70 0 t70 0 t70 0 t70 0 V215 H-200 Z" fill="#FFB13D"/></g><path d="M68.3 28.7 A78 78 0 1 0 131.7 28.7" fill="none" stroke="#0A0B10" stroke-width="16" stroke-linecap="round"/></svg><span>Programme préparé sur baromatch.fr, à l’heure de Paris, le mercredi 28 octobre.</span></p>
+      <p class="affiche-prepare"><svg class="affiche-verre" viewBox="0 0 200 200" aria-hidden="true" focusable="false"><clipPath id="affiche-bol"><circle cx="100" cy="100" r="67"/></clipPath><g clip-path="url(#affiche-bol)"><path d="M-200 108 q35 -6 70 0 t70 0 t70 0 t70 0 t70 0 t70 0 t70 0 t70 0 V215 H-200 Z" fill="#FFB13D"/></g><path d="M68.3 28.7 A78 78 0 1 0 131.7 28.7" fill="none" stroke="#0A0B10" stroke-width="16" stroke-linecap="round"/></svg><span>Programme préparé sur baromatch.fr, à l’heure de Paris, le jeudi 29 octobre.</span></p>
     </div>
     <figure class="affiche-qr">
       <svg class="affiche-qr__code" viewBox="0 0 33 33" role="img" aria-label="QR code vers baromatch.fr" shape-rendering="crispEdges"><rect width="33" height="33" fill="#FFFFFF"/><path d="M4 4h7v1h-7zM13 4h3v1h-3zM18 4h1v1h-1zM20 4h1v1h-1zM22 4h7v1h-7zM4 5h1v1h-1zM10 5h1v1h-1zM12 5h1v1h-1zM14 5h1v1h-1zM16 5h3v1h-3zM22 5h1v1h-1zM28 5h1v1h-1zM4 6h1v1h-1zM6 6h3v1h-3zM10 6h1v1h-1zM12 6h2v1h-2zM16 6h1v1h-1zM19 6h1v1h-1zM22 6h1v1h-1zM24 6h3v1h-3zM28 6h1v1h-1zM4 7h1v1h-1zM6 7h3v1h-3zM10 7h1v1h-1zM12 7h6v1h-6zM19 7h2v1h-2zM22 7h1v1h-1zM24 7h3v1h-3zM28 7h1v1h-1zM4 8h1v1h-1zM6 8h3v1h-3zM10 8h1v1h-1zM13 8h1v1h-1zM15 8h1v1h-1zM20 8h1v1h-1zM22 8h1v1h-1zM24 8h3v1h-3zM28 8h1v1h-1zM4 9h1v1h-1zM10 9h1v1h-1zM17 9h2v1h-2zM20 9h1v1h-1zM22 9h1v1h-1zM28 9h1v1h-1zM4 10h7v1h-7zM12 10h1v1h-1zM14 10h1v1h-1zM16 10h1v1h-1zM18 10h1v1h-1zM20 10h1v1h-1zM22 10h7v1h-7zM12 11h1v1h-1zM16 11h1v1h-1zM19 11h1v1h-1zM4 12h1v1h-1zM10 12h1v1h-1zM12 12h1v1h-1zM15 12h1v1h-1zM17 12h3v1h-3zM21 12h2v1h-2zM25 12h3v1h-3zM5 13h4v1h-4zM16 13h1v1h-1zM19 13h1v1h-1zM23 13h5v1h-5zM4 14h3v1h-3zM10 14h1v1h-1zM12 14h2v1h-2zM16 14h2v1h-2zM19 14h1v1h-1zM22 14h1v1h-1zM24 14h2v1h-2zM27 14h2v1h-2zM5 15h2v1h-2zM8 15h2v1h-2zM11 15h1v1h-1zM15 15h1v1h-1zM20 15h3v1h-3zM25 15h1v1h-1zM28 15h1v1h-1zM6 16h2v1h-2zM9 16h3v1h-3zM14 16h1v1h-1zM16 16h1v1h-1zM18 16h2v1h-2zM22 16h2v1h-2zM28 16h1v1h-1zM4 17h1v1h-1zM6 17h4v1h-4zM11 17h1v1h-1zM13 17h2v1h-2zM17 17h1v1h-1zM19 17h3v1h-3zM23 17h1v1h-1zM27 17h1v1h-1zM4 18h1v1h-1zM10 18h1v1h-1zM12 18h2v1h-2zM15 18h6v1h-6zM22 18h4v1h-4zM27 18h2v1h-2zM4 19h1v1h-1zM6 19h3v1h-3zM11 19h2v1h-2zM14 19h2v1h-2zM20 19h1v1h-1zM23 19h1v1h-1zM25 19h2v1h-2zM28 19h1v1h-1zM4 20h1v1h-1zM7 20h1v1h-1zM10 20h2v1h-2zM13 20h1v1h-1zM15 20h1v1h-1zM19 20h6v1h-6zM26 20h1v1h-1zM12 21h1v1h-1zM16 21h2v1h-2zM20 21h1v1h-1zM24 21h1v1h-1zM4 22h7v1h-7zM14 22h2v1h-2zM20 22h1v1h-1zM22 22h1v1h-1zM24 22h1v1h-1zM28 22h1v1h-1zM4 23h1v1h-1zM10 23h1v1h-1zM13 23h1v1h-1zM16 23h2v1h-2zM19 23h2v1h-2zM24 23h1v1h-1zM27 23h2v1h-2zM4 24h1v1h-1zM6 24h3v1h-3zM10 24h1v1h-1zM14 24h1v1h-1zM16 24h1v1h-1zM18 24h7v1h-7zM26 24h3v1h-3zM4 25h1v1h-1zM6 25h3v1h-3zM10 25h1v1h-1zM13 25h1v1h-1zM18 25h5v1h-5zM27 25h2v1h-2zM4 26h1v1h-1zM6 26h3v1h-3zM10 26h1v1h-1zM13 26h4v1h-4zM20 26h1v1h-1zM25 26h2v1h-2zM28 26h1v1h-1zM4 27h1v1h-1zM10 27h1v1h-1zM13 27h3v1h-3zM18 27h1v1h-1zM20 27h2v1h-2zM23 27h2v1h-2zM28 27h1v1h-1zM4 28h7v1h-7zM12 28h3v1h-3zM17 28h2v1h-2zM20 28h1v1h-1zM25 28h1v1h-1zM28 28h1v1h-1z" fill="#000000"/></svg>

diff --git a/matchs/index.html b/matchs/index.html
@@ -7,7 +7,7 @@
      à la main serait effacée au suivant. Aucun script écrit dans la page : seulement les fichiers du site. -->
 <meta http-equiv="Content-Security-Policy" content="default-src 'self'; script-src 'self'; style-src 'self'; img-src 'self' data:; font-src 'self'; connect-src 'self'; base-uri 'none'; object-src 'none'; form-action https://formspree.io">
 <title>Les matchs de la semaine — Baromatch</title>
-<meta name="description" content="21 matchs d’ici mardi 3 novembre, à l’heure de Paris. Baromatch cherche ses premiers bars à Paris.">
+<meta name="description" content="22 matchs d’ici mercredi 4 novembre, à l’heure de Paris. Baromatch cherche ses premiers bars à Paris.">
 <meta name="robots" content="noindex">
 <link rel="canonical" href="https://baromatch.fr/matchs/">
 <meta name="theme-color" content="#0A0B10">
@@ -21,7 +21,7 @@
 <meta property="og:locale" content="fr_FR">
 <meta property="og:site_name" content="Baromatch">
 <meta property="og:title" content="Les matchs de la semaine — Baromatch">
-<meta property="og:description" content="21 matchs d’ici mardi 3 novembre, à l’heure de Paris. Baromatch cherche ses premiers bars à Paris.">
+<meta property="og:description" content="22 matchs d’ici mercredi 4 novembre, à l’heure de Paris. Baromatch cherche ses premiers bars à Paris.">
 <meta property="og:url" content="https://baromatch.fr/matchs/">
 <meta property="og:image" content="https://baromatch.fr/img/og-image.jpg">
 <meta property="og:image:width" content="1200">
@@ -30,7 +30,7 @@
 <meta name="twitter:card" content="summary_large_image">
 <meta name="twitter:site" content="@baromatchapp">
 <meta name="twitter:image" content="https://baromatch.fr/img/og-image.jpg">
-<script type="application/ld+json">{"@context":"https://schema.org","@graph":[{"@type":"CollectionPage","@id":"https://baromatch.fr/matchs/","url":"https://baromatch.fr/matchs/","name":"Les matchs de la semaine — Baromatch","description":"21 matchs d’ici mardi 3 novembre, à l’heure de Paris. Baromatch cherche ses premiers bars à Paris.","inLanguage":"fr-FR","isPartOf":{"@id":"https://baromatch.fr/#site"},"publisher":{"@id":"https://baromatch.fr/#organisation"}},{"@type":"BreadcrumbList","itemListElement":[{"@type":"ListItem","position":1,"name":"Accueil","item":"https://baromatch.fr/"},{"@type":"ListItem","position":2,"name":"Les matchs de la semaine","item":"https://baromatch.fr/matchs/"}]}]}</script>
+<script type="application/ld+json">{"@context":"https://schema.org","@graph":[{"@type":"CollectionPage","@id":"https://baromatch.fr/matchs/","url":"https://baromatch.fr/matchs/","name":"Les matchs de la semaine — Baromatch","description":"22 matchs d’ici mercredi 4 novembre, à l’heure de Paris. Baromatch cherche ses premiers bars à Paris.","inLanguage":"fr-FR","isPartOf":{"@id":"https://baromatch.fr/#site"},"publisher":{"@id":"https://baromatch.fr/#organisation"}},{"@type":"BreadcrumbList","itemListElement":[{"@type":"ListItem","position":1,"name":"Accueil","item":"https://baromatch.fr/"},{"@type":"ListItem","position":2,"name":"Les matchs de la semaine","item":"https://baromatch.fr/matchs/"}]}]}</script>
 </head>
 <body>
 <a class="lien-evitement" href="#contenu">Aller au contenu</a>
@@ -59,14 +59,11 @@
   <p class="regarder-premiers__bars"><strong>Tu tiens un bar ?</strong> <a href="/pour-les-bars.html#proposer">Proposer mon bar</a></p>
 </section>
 <section class="regarder-section regarder-ce-soir" aria-labelledby="titre-ce-soir">
-  <h2 id="titre-ce-soir">Ce soir, mercredi 28 octobre</h2>
-  <p>Pas de match annoncé ce soir.</p>
-</section>
-<section class="regarder-section" aria-labelledby="jour-2026-10-29">
-  <h2 id="jour-2026-10-29">Jeudi 29 octobre</h2>
+  <h2 id="titre-ce-soir">Aujourd’hui, jeudi 29 octobre</h2>
   <ul class="regarder-matchs">
     <li><a class="regarder-matchs__match" href="/matchs/fiorentina-atalanta-2026-10-29/">Fiorentina – Atalanta</a> <span class="regarder-matchs__infos"><time datetime="2026-10-29T20:45:00+01:00">20:45</time> · Serie A</span></li>
   </ul>
+  <p class="regarder-suite"><a href="/ce-soir/">Les matchs de ce soir</a></p>
 </section>
 <section class="regarder-section" aria-labelledby="jour-2026-10-30">
   <h2 id="jour-2026-10-30">Vendredi 30 octobre</h2>
@@ -113,10 +110,15 @@
     <li><a class="regarder-matchs__match" href="/matchs/villarreal-psg-2026-11-03/">Villarreal – PSG</a> <span class="regarder-matchs__infos"><time datetime="2026-11-03T21:00:00+01:00">21:00</time> · Ligue des champions</span></li>
   </ul>
 </section>
+<section class="regarder-section" aria-labelledby="jour-2026-11-04">
+  <h2 id="jour-2026-11-04">Mercredi 4 novembre</h2>
+  <ul class="regarder-matchs">
+    <li><a class="regarder-matchs__match" href="/matchs/lens-como-1907-2026-11-04/">Lens – Como 1907</a> <span class="regarder-matchs__infos"><time datetime="2026-11-04T21:00:00+01:00">21:00</time> · Ligue des champions</span></li>
+  </ul>
+</section>
 <section class="regarder-section" aria-labelledby="titre-ensuite">
   <h2 id="titre-ensuite">La semaine d’après</h2>
   <ul class="regarder-matchs">
-    <li><a class="regarder-matchs__match" href="/matchs/lens-como-1907-2026-11-04/">Lens – Como 1907</a> <span class="regarder-matchs__infos"><time datetime="2026-11-04T21:00:00+01:00">Mercredi 4 novembre · 21:00</time> · Ligue des champions</span></li>
     <li><a class="regarder-matchs__match" href="/matchs/real-sociedad-ol-2026-11-05/">Real Sociedad – OL</a> <span class="regarder-matchs__infos"><time datetime="2026-11-05T18:45:00+01:00">Jeudi 5 novembre · 18:45</time> · Ligue Europa</span></li>
     <li><a class="regarder-matchs__match" href="/matchs/rennes-olympiacos-2026-11-05/">Rennes – Olympiacos</a> <span class="regarder-matchs__infos"><time datetime="2026-11-05T18:45:00+01:00">Jeudi 5 novembre · 18:45</time> · Ligue Europa</span></li>
     <li><a class="regarder-matchs__match" href="/matchs/monaco-nordsjaelland-2026-11-05/">Monaco – Nordsjælland</a> <span class="regarder-matchs__infos"><time datetime="2026-11-05T21:00:00+01:00">Jeudi 5 novembre · 21:00</time> · Ligue Conférence</span></li>
